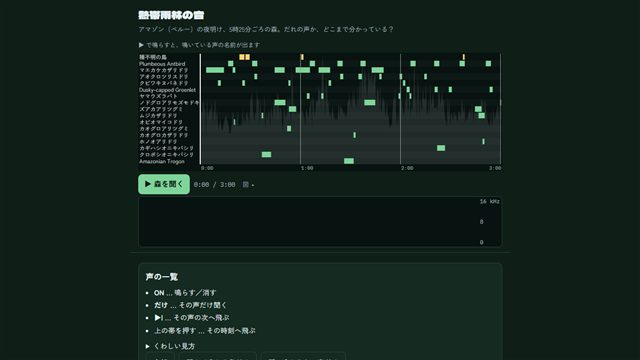
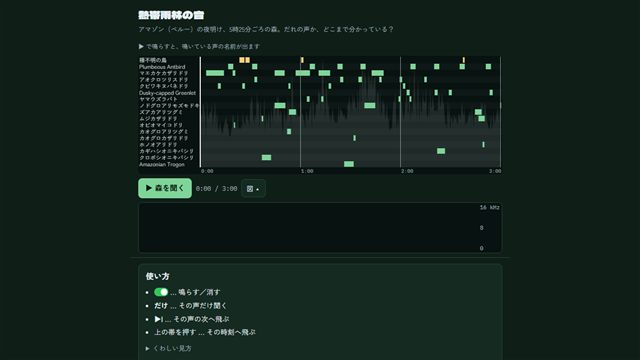
v009-tidy 熱帯雨林の音: ON/OFF をトグルスイッチに・使い方と声の一覧のパネルを分ける・ボタンの形と大きさをそろえる・余白を 8/12 px の2つにして style.css を書き直す・固定した所の状態は再生の行の右に

diff --git a/jungle-sound/css/style.css b/jungle-sound/css/style.css
@@ -1,137 +1,121 @@
-/* 熱帯雨林の音 */
-:root{--bg:#0f1f18;--panel:#152a21;--line:#2a4538;--ink:#e8f0f4;--muted:#a3b4bf;--acc:#7fd49a;--ok:#7fd49a;--ng:#ff9b7a;
+/* 熱帯雨林の音
+   余白は2つだけ（2026-11-14 ユーザー「マージンが詰まりすぎたり離れすぎたり」）:
+   --g = かたまりの中の部品どうし 8px ／ --G = かたまり（パネル）どうし 12px。部品ごとに margin を足さず、親の gap で並べる */
+:root{--bg:#0f1f18;--panel:#152a21;--line:#2a4538;--ink:#e8f0f4;--muted:#a3b4bf;--acc:#7fd49a;--ok:#7fd49a;--ng:#ff9b7a;--warn:#ffd27a;
+  --g:8px;--G:12px;--pad:16px;
   --f-display:'Dela Gothic One','Yu Gothic',sans-serif;--f-body:'Zen Kaku Gothic New','Yu Gothic',system-ui,sans-serif;--f-mono:'IBM Plex Mono',Consolas,monospace;color-scheme:dark}
 html,body{margin:0;background:var(--bg);color:var(--ink);font-family:var(--f-body)}
 [hidden]{display:none!important}
+p,ul,h1,h2,h3{margin:0}
 #app{max-width:760px;margin:0 auto}
-#top{padding:12px 16px 4px}
-#top h1{font-family:var(--f-display);font-weight:400;font-size:22px;margin:0}
-.sub{margin:4px 0 0;color:var(--muted);font-size:13px}
+#top{padding:var(--G) var(--pad) var(--g);display:flex;flex-direction:column;gap:4px}
+#top h1{font-family:var(--f-display);font-weight:400;font-size:22px}
+.sub{color:var(--muted);font-size:13px}
 
-/* 上に固定: 図と再生（スマホでもスクロールで消えない） */
-#pin{position:sticky;top:0;z-index:2;background:var(--bg);padding:8px 16px 10px;border-bottom:1px solid var(--line)}
-.spec-wrap{position:relative;height:150px;border:1px solid var(--line);border-radius:8px;overflow:hidden;background:#081210}
-#spec{position:absolute;inset:0;width:100%;height:100%;display:block}
-.axis{position:absolute;right:4px;top:2px;bottom:2px;display:flex;flex-direction:column;justify-content:space-between;font:11px var(--f-mono);color:var(--muted);pointer-events:none}
-.spec-note{margin:4px 0 0;color:var(--muted);font-size:12px}
-.player{display:flex;align-items:center;gap:12px;margin-top:8px;flex-wrap:wrap}
-.status{margin:0;font:14px var(--f-mono);color:var(--muted)}
-.status.on{color:var(--acc)}
+/* ---- ボタンの形（2種類だけ） ---- */
+button{font:inherit;cursor:pointer;border-radius:8px}
+button:disabled{opacity:.3;cursor:default}
+.primary{background:var(--acc);color:#0b1a12;border:none;font-weight:700;font-size:15px;min-height:40px;padding:8px 14px;white-space:nowrap}
+.primary.on{background:var(--warn)}
+/* ふつうのボタン（全部・種まで分かる鳥だけ・だけ・▶|・図）。同じ形・同じ大きさ */
+.btn,.fold{flex:0 0 auto;background:#132a20;color:var(--ink);border:1px solid var(--line);min-height:36px;min-width:44px;padding:2px 10px;font-size:13px;white-space:nowrap}
 
-button{font:inherit;font-size:15px;min-height:40px;padding:8px 14px;border-radius:8px;cursor:pointer}
-button:disabled{opacity:.4;cursor:default}
-.primary{background:var(--acc);color:#0b1a12;border:none;font-weight:700}
-.primary.on{background:#ffd27a}
-.listen{background:transparent;color:var(--ink);border:1px solid var(--acc)}
-.listen.on{background:var(--acc);color:#0b1a12}
-.answer{background:#24392f;color:var(--ink);border:1px solid var(--line)}
-
-/* 第二弾: 声のカード（上に固定。横に並べてスクロール） */
-.now-hear{margin:6px 0 0;font-size:12px;color:var(--muted);font-family:var(--f-mono)}
-.cards{display:flex;gap:8px;overflow-x:auto;padding:8px 2px 6px;scroll-snap-type:x proximity}
-.vc{flex:0 0 118px;display:flex;flex-direction:column;border-radius:10px;scroll-snap-align:start;
-  --lv:0;transition:box-shadow .08s}
-.vc-main{all:unset;box-sizing:border-box;cursor:pointer;display:flex;flex-direction:column;gap:1px;background:#1a3328;flex:1;
-  border:2px solid var(--line);border-radius:10px 10px 0 0;padding:0 0 4px;overflow:hidden;position:relative}
-.vc-main:focus-visible{outline:2px solid var(--acc);outline-offset:2px}
-.vc-main img,.vc-main .q{width:100%;height:52px;object-fit:cover;display:block;background:#0b1712}
-.vc-main .q{display:flex;align-items:center;justify-content:center;font:28px var(--f-display);color:#7d8f88}
-.vc-kind{display:inline-block;align-self:flex-start;margin:4px 6px 0;padding:0 6px;border-radius:4px;font-size:11px;line-height:18px;font-weight:700}
-.k-sp{background:#7fd49a;color:#0b1a12} .k-bird{background:#ffd27a;color:#2a1d00} .k-bed{background:#8a9a94;color:#101814}
-.vc-name{padding:0 6px;font-size:13px;font-weight:700;line-height:1.3}
-.vc-sub{padding:0 6px;font-size:10.5px;color:var(--muted);line-height:1.3}
-.vc-cnt{padding:0 6px;font-size:10.5px;color:var(--muted);font-family:var(--f-mono)}
-.vc-state{position:absolute;top:4px;right:4px;font:700 11px var(--f-mono);background:#0b1a12cc;color:var(--acc);padding:1px 5px;border-radius:4px}
-.vc-solo{border-radius:0 0 10px 10px;border:2px solid var(--line);border-top:none;background:#132a20;color:var(--ink);font-size:13px;min-height:36px;padding:2px}
-.vc.live .vc-main{border-color:rgba(255,224,130,calc(.35 + .65*var(--lv)));box-shadow:0 0 calc(4px + 14px*var(--lv)) rgba(255,214,110,calc(.25 + .6*var(--lv)))}
-.vc.off .vc-main{filter:grayscale(1);opacity:.45}
-.vc.off .vc-state{color:var(--ng)}
-.vc.off.live .vc-main{box-shadow:0 0 6px rgba(255,214,110,.25)}
-.groups{display:flex;flex-wrap:wrap;gap:8px}
-.grp{background:transparent;color:var(--ink);border:1px solid var(--line);font-size:14px}
-.mix-state{margin:8px 0 0;font-size:13px;display:flex;flex-direction:column;min-height:2.9em}
-.mix-state span{white-space:nowrap;overflow:hidden;text-overflow:ellipsis;min-height:1.45em}
-.howto{margin:4px 0 6px;padding-left:1.2em;font-size:14px;line-height:1.8}
-.next:disabled{opacity:.3;cursor:default}
-.hint{color:var(--muted);font-size:13px;margin:6px 0 0}
-.boost{color:#ffd27a}
-.boost-tag{display:inline-block;background:#ffd27a;color:#2a1d00;border-radius:4px;padding:0 5px;font-weight:700}
-.card-note{margin:2px 0 0;font-size:11px;color:var(--muted)}
-.vc.solo .vc-solo{background:var(--acc);color:#0b1a12;font-weight:700}
-.vc.solo .vc-main{border-color:var(--acc)}
-.vc-sub{display:-webkit-box;-webkit-line-clamp:2;-webkit-box-orient:vertical;overflow:hidden}
-#pin .spec-wrap{height:110px}
-@media (max-width:480px){ #pin .spec-wrap{height:80px} .vc{flex-basis:104px} }
-
-/* 声の帯と、いま鳴いている名前の札（上に固定） */
-.chips{margin:0 0 4px;min-height:22px;display:flex;flex-wrap:wrap;gap:4px;align-items:center;font-size:12px}
+/* ---- 上に固定: いま鳴いている名前 → 声の帯 → 再生の行 → 図 ---- */
+#pin{position:sticky;top:0;z-index:2;background:var(--bg);padding:var(--g) var(--pad);border-bottom:1px solid var(--line);display:flex;flex-direction:column;gap:var(--g)}
+.chips{min-height:20px;display:flex;flex-wrap:wrap;gap:4px;align-items:center;font-size:12px}
 .chip{display:inline-block;padding:0 6px;border-radius:4px;font-size:11.5px;line-height:18px;font-weight:700}
 .chip.off{background:transparent!important;border:1px dashed #5d6d67;color:#8a9a94;font-weight:400}
 .chip-lead{color:var(--muted);margin-right:2px}
 .chip-none{color:var(--muted)}
 .lanes-wrap{position:relative}
 #lanes{display:block;width:100%;touch-action:pan-y;cursor:pointer;border-radius:6px}
-#pin .player{margin-top:6px;gap:8px;flex-wrap:wrap}
-#pin .player .primary{white-space:nowrap;padding:8px 12px}
-#pin .status{font-size:12.5px;white-space:nowrap}
+.player{display:flex;align-items:center;gap:var(--g);min-width:0}
+.status{font:12.5px var(--f-mono);color:var(--muted);white-space:nowrap}
+.status.on{color:var(--acc)}
+/* 状態（「〜だけ」「+20 dB」）と移動先は、再生の行の右の残り。行は足さない */
+.pin-line{flex:1 1 auto;min-width:0;font-size:12px;white-space:nowrap;overflow:hidden;text-overflow:ellipsis;text-align:right}
 .pin-state{color:var(--muted)}
-.spec-head{display:flex;gap:4px;align-items:center;margin-left:auto}
-.tab{background:transparent;color:var(--muted);border:1px solid var(--line);font-size:12.5px;min-height:36px;padding:4px 8px;white-space:nowrap}
-.tab.on{background:#24392f;color:var(--ink);border-color:var(--acc)}
-.fold{background:transparent;color:var(--muted);border:1px solid transparent;font-size:12px;min-height:36px;padding:4px 6px;white-space:nowrap}
-#pin .spec-wrap{height:100px;margin-top:4px}
-.pin-line{margin:4px 0 0;height:18px;line-height:18px;font-size:12px;white-space:nowrap;overflow:hidden;text-overflow:ellipsis}
-.pin-line .pin-state:not(:empty){margin-right:8px}
-.seek-msg{font:12px var(--f-mono);color:#ffd27a}
-.more{margin-bottom:12px}
-/* 声の一覧（下にスクロール） */
-.vlist{list-style:none;margin:8px 0;padding:0}
-.lr{display:flex;flex-wrap:wrap;align-items:center;gap:6px;border:1.5px solid transparent;border-bottom:1px solid var(--line);padding:4px 2px;border-radius:6px}
-.lr.sel{border:1.5px solid #fff}
+.pin-state:not(:empty){margin-right:6px}
+.seek-msg{font:12px var(--f-mono);color:var(--warn)}
+.boost-tag{display:inline-block;background:var(--warn);color:#2a1d00;border-radius:4px;padding:0 5px;font-weight:700}
+.spec-wrap{position:relative;height:100px;border:1px solid var(--line);border-radius:8px;overflow:hidden;background:#081210}
+#spec{position:absolute;inset:0;width:100%;height:100%;display:block}
+.axis{position:absolute;right:4px;top:2px;bottom:2px;display:flex;flex-direction:column;justify-content:space-between;font:11px var(--f-mono);color:var(--muted);pointer-events:none}
+
+/* ---- 下にスクロール: パネル ---- */
+#scroll{padding:var(--G) var(--pad) 32px;display:flex;flex-direction:column;gap:var(--G)}
+.card{background:var(--panel);border:1px solid var(--line);border-radius:10px;padding:var(--G) 14px;font-size:14px;line-height:1.7;display:flex;flex-direction:column;gap:var(--g)}
+.card h2{font-size:16px;line-height:1.4}
+.card h3{font-size:14px}
+.card a,#about a{color:var(--acc)}
+/* 開閉（details）は、ブラウザによって flex が効かないので、となりどうしの間をあける */
+details.card{display:block}
+details.card>*+*{margin-top:var(--g)}
+details.card>summary,.more>summary{cursor:pointer}
+.more>*+*{margin-top:6px}
+.more>summary{color:var(--muted);font-size:13px}
+.howto{padding-left:1.2em;line-height:1.9}
+.tg-mini{display:inline-block;vertical-align:-3px;width:28px;height:17px;border-radius:9px;background:#34c759;position:relative}
+.tg-mini::after{content:"";position:absolute;top:2px;left:13px;width:13px;height:13px;border-radius:50%;background:#fff}
+.warn,.card-note{color:var(--muted);font-size:12px}
+.vc-kind{display:inline-block;padding:0 6px;border-radius:4px;font-size:11px;line-height:18px;font-weight:700}
+.k-sp{background:#7fd49a;color:#0b1a12} .k-bird{background:var(--warn);color:#2a1d00} .k-bed{background:#8a9a94;color:#101814}
+
+/* ---- 声の一覧: まとめボタン → いまの状態（1行） → 行 ---- */
+.groups{display:flex;flex-wrap:wrap;gap:6px}
+.mix-state{font-size:13px;white-space:nowrap;overflow:hidden;text-overflow:ellipsis;line-height:1.5}
+.boost{color:var(--warn)}
+.vlist{list-style:none;padding:0;display:flex;flex-direction:column}
+.lr{display:flex;flex-wrap:wrap;align-items:center;gap:6px;padding:4px;border:1.5px solid transparent;border-bottom-color:var(--line);border-radius:6px}
+.lr.sel{border-color:#fff}
 .lr.off .lr-body{opacity:.45;filter:grayscale(1)}
-.sw{flex:0 0 auto;display:flex;align-items:center;gap:4px;min-height:36px;min-width:58px;padding:2px 8px;border-radius:18px;border:1px solid var(--acc);background:#1f4a33;color:var(--acc);font:700 12px var(--f-mono)}
-.sw .sw-dot{width:12px;height:12px;border-radius:50%;background:var(--acc)}
-.lr.off .sw{background:transparent;border-color:#5d6d67;color:#8a9a94}
-.lr.off .sw .sw-dot{background:transparent;border:1.5px solid #8a9a94}
+/* ON／OFF のトグルスイッチ（iPhone の設定のような形。右に寄って緑＝鳴らす） */
+.tg{all:unset;box-sizing:border-box;flex:0 0 auto;position:relative;width:50px;height:30px;border-radius:15px;background:#3a4a44;cursor:pointer;transition:background .18s}
+.tg .tg-knob{position:absolute;top:3px;left:3px;width:24px;height:24px;border-radius:50%;background:#fff;box-shadow:0 1px 3px rgba(0,0,0,.4);transition:left .18s}
+.tg[aria-checked="true"]{background:#34c759}
+.tg[aria-checked="true"] .tg-knob{left:23px}
+.tg:focus-visible{outline:2px solid #fff;outline-offset:2px}
 .lr-body{all:unset;box-sizing:border-box;flex:1 1 140px;display:flex;align-items:center;gap:6px;cursor:pointer;min-height:40px;min-width:0}
 .lr-body:focus-visible{outline:2px solid var(--acc)}
 .lr-body img,.lr-body .q{width:40px;height:30px;object-fit:cover;border-radius:4px;flex:0 0 auto;background:#0b1712;display:flex;align-items:center;justify-content:center;font-size:14px;color:#7d8f88}
 .num{flex:0 0 auto;min-width:20px;text-align:center;border-radius:4px;font:700 11px/18px var(--f-mono)}
-.lr-text{display:flex;flex-direction:column;min-width:0}
+.lr-text{flex:1 1 auto;display:flex;flex-direction:column;min-width:0;line-height:1.4}
 .lr-name{font-size:13.5px;font-weight:700;white-space:nowrap;overflow:hidden;text-overflow:ellipsis}
-.lr-name .vc-kind{margin:0 0 0 4px;vertical-align:1px}
+.lr-name .vc-kind{margin-left:4px;vertical-align:1px}
 .lr-sub{font-size:11px;color:var(--muted);white-space:nowrap;overflow:hidden;text-overflow:ellipsis}
-.lr-text{flex:1 1 auto}
-.solo,.next{flex:0 0 auto;background:#132a20;color:var(--ink);border:1px solid var(--line);min-height:36px;min-width:44px;padding:2px 8px;font-size:13px}
 .lr.solo-on .solo{background:var(--acc);color:#0b1a12;font-weight:700}
-.lr-detail{flex:1 1 100%;font-size:13px;line-height:1.7;color:var(--ink)}
-.lr-detail .big{width:100%;max-width:320px;border-radius:6px;display:block;margin:4px 0}
+.lr-detail{flex:1 1 100%;font-size:13px;line-height:1.7;display:flex;flex-direction:column;gap:6px;padding:2px 0 4px}
+.lr-detail .big{width:100%;max-width:320px;border-radius:6px;display:block}
 .lr-detail .cr{font-size:11.5px;color:var(--muted)}
-.lr-detail .desc{margin:2px 0 6px}
-.lr-detail .more{margin-bottom:6px}
-@media (max-width:480px){ #pin .spec-wrap{height:56px} .spec-note{font-size:11px} #pin{padding-top:6px}
-  .lr-name .vc-kind{display:none} .sw{min-width:50px;padding:2px 6px} .lr{gap:4px}   /* 確かさは番号の色で分かるので、名前の横の札は出さない */
-  .hide-sm{display:none} #pin .player{gap:6px} #pin .status{font-size:11.5px} .tab{padding:4px 6px} .fold{padding:4px 4px} }
 
-#scroll{padding:8px 16px 32px}
-.card{background:var(--panel);border:1px solid var(--line);border-radius:10px;padding:12px 14px;margin:12px 0;line-height:1.75;font-size:14px}
-.card h2{font-size:16px;margin:0 0 6px}
-.card h3{font-size:14px;margin:12px 0 4px}
-.warn{color:var(--muted);font-size:13px}
-.ab{display:flex;gap:10px;margin:8px 0}
-.ab button{flex:1}
-.result{margin:8px 0 0;font-weight:700}
-.score{margin:2px 0 0;color:var(--muted);font:13px var(--f-mono)}
+/* ---- このアプリについて ---- */
+#about{color:var(--muted)}
+#about>summary{color:var(--ink)}
+#about ul{padding-left:18px;display:flex;flex-direction:column;gap:4px}
+
+/* ---- 開発用（手元だけ）: 聞きくらべ・機械・数 ---- */
+.ab{display:flex;gap:var(--g)}
+.ab button{flex:1;min-height:40px;font-size:14px}
+.listen{background:transparent;color:var(--ink);border:1px solid var(--acc)}
+.listen.on{background:var(--acc);color:#0b1a12}
+.answer{background:#24392f;color:var(--ink);border:1px solid var(--line)}
+.result{font-weight:700}
+.score{color:var(--muted);font:13px var(--f-mono)}
+.metrics,#bands{overflow-x:auto}
 .metrics table,#bands table{width:100%;border-collapse:collapse;font-size:13px}
 .metrics th,.metrics td,#bands th,#bands td{border-bottom:1px solid var(--line);padding:5px 4px;text-align:right}
-.metrics th:first-child,.metrics td:first-child,#bands th:first-child,#bands td:first-child{text-align:left}
+.metrics th:first-child,.metrics td:first-child,#bands th:first-child,#bands td:first-child{text-align:left;min-width:9em}
 .metrics td.num,#bands td.num{font-family:var(--f-mono);white-space:nowrap}
-.metrics,#bands{overflow-x:auto}   /* 表だけ横に動かせる（ページははみ出さない） */
-.metrics td:first-child,#bands td:first-child{min-width:9em}
 .in{color:var(--ok)} .out{color:var(--ng)}
-.summary{margin:8px 0 0;font-weight:700}
-.more summary,#about summary{cursor:pointer}
-#about{color:var(--muted)}
-#about summary{color:var(--ink)}
-#about a,.card a{color:var(--acc)}
-#about ul{padding-left:18px}
+.summary{font-weight:700}
+
+/* ---- スマホ ---- */
+@media (max-width:480px){
+  .spec-wrap{height:56px}
+  .hide-sm{display:none}
+  .primary{padding:8px 12px}
+  .status{font-size:11.5px}
+  .fold{padding:2px 8px}
+  .lr{gap:4px}
+  .lr-name .vc-kind{display:none}   /* 確かさは番号の色で分かるので、名前の横の札は出さない */
+}

diff --git a/jungle-sound/js/list.js b/jungle-sound/js/list.js
@@ -1,5 +1,5 @@
 // 熱帯雨林の音 — 声の一覧（下にスクロール。声の帯と同じ順・同じ番号）
-// 1行 = ON／OFF のスイッチ・番号・写真・名前・「だけ」・「次の声へ」。行を押すとその声を選ぶ（写真と出どころが開く）。
+// 1行 = ON／OFF のトグルスイッチ（iPhone の設定のような形）・番号・写真・名前・「だけ」・「次の声へ」。行を押すとその声を選ぶ（写真と出どころが開く）。
 // 選んだ声: 帯と一覧に白い縁どり。
 // 確かさ: 種まで（録音への専門家の注釈で種が付いた鳥の声）／鳥・種は不明（注釈で種が付かなかった「????」）／分けられていない（土台。虫・カエルなど）
 'use strict';
@@ -23,19 +23,19 @@ window.List = (() => {
       const pic = s.photo ? `<img src="${s.photo.file}" alt="" loading="lazy">` : `<span class="q">${k === 'sp' ? '<small>写真なし</small>' : k === 'bird' ? '鳥？' : '？'}</span>`;
       const sub = k === 'bed' ? 'だれの声か分けられていない' : k === 'bird' ? `種は分からない・${count[code]} 回` : `<i>${s.sci}</i>・${count[code]} 回`;
       return `<li class="lr" data-code="${code}">
-        <button class="sw" aria-pressed="true" aria-label="${name}を鳴らす／消す"><span class="sw-dot"></span><span class="sw-txt">ON</span></button>
+        <button class="tg" role="switch" aria-checked="true" aria-label="${name}を鳴らす"><span class="tg-knob"></span></button>
         <button class="lr-body" aria-expanded="false" aria-label="${name}を選ぶ">
           <span class="num ${KIND[k][1]}">${code === 'bed' ? '地' : i + 1}</span>${pic}
           <span class="lr-text"><span class="lr-name">${name} <span class="vc-kind ${KIND[k][1]}">${KIND[k][0]}</span></span><span class="lr-sub">${sub}</span></span>
         </button>
-        <button class="solo" aria-pressed="false" aria-label="${name}だけを聞く">だけ</button>
-        ${code === 'bed' ? '' : `<button class="next" aria-label="${name}の次の声へ移動">▶|</button>`}
+        <button class="solo btn" aria-pressed="false" aria-label="${name}だけを聞く">だけ</button>
+        ${code === 'bed' ? '' : `<button class="next btn" aria-label="${name}の次の声へ移動">▶|</button>`}
         <div class="lr-detail" hidden></div></li>`;
     };
     $('voiceList').innerHTML = row('bed', -1) + order.map(row).join('');
     for (const li of $('voiceList').querySelectorAll('.lr')) {
       const code = li.dataset.code;
-      const sw = li.querySelector('.sw'), solo = li.querySelector('.solo');
+      const sw = li.querySelector('.tg'), solo = li.querySelector('.solo');
       sw.onclick = () => keep(sw, () => { soloCode = null; setOn(code, !isOn(code)); });
       li.querySelector('.lr-body').onclick = () => select(sel === code ? null : code);
       solo.onclick = () => keep(solo, () => { only(c => c === code, `「${short(code)}」だけ`); soloCode = code; marks(); });
@@ -55,7 +55,7 @@ window.List = (() => {
   function setOn(code, on, quiet) {
     Forest.set(code, on);
     const li = $('voiceList').querySelector(`[data-code="${CSS.escape(code)}"]`);
-    li.classList.toggle('off', !on); li.querySelector('.sw').setAttribute('aria-pressed', on); li.querySelector('.sw-txt').textContent = on ? 'ON' : 'OFF';
+    li.classList.toggle('off', !on); li.querySelector('.tg').setAttribute('aria-checked', on);
     const nx = li.querySelector('.next'); if (nx) nx.disabled = !on;   // 消している声へは飛べない
     if (!quiet) { marks(); summary(null); onChange(); }
   }
@@ -70,9 +70,9 @@ window.List = (() => {
     const on = all().filter(isOn), by = k => on.filter(c => kindOf(c) === k).length;
     const boost = !isOn('bed') && on.length > 0 ? Forest.BOOST_DB : 0;   // 虫・カエルを消して鳥だけのときは、聞きやすいように大きく
     Forest.boost(boost);
-    // 高さが変わらないように、いつも2行（1行目: いま鳴らしている数、2行目: 大きくしているときだけの注意）
-    $('mixState').innerHTML = `<span>${label ? `<b>${label}</b> ・ ` : ''}鳴らしている声 ${on.length} / ${all().length}</span>` +
-      `<span class="boost">${boost ? `鳥の声を +${boost} dB 大きくしています（本物より大きい）` : ''}</span>`;
+    // 1行だけ（高さを変えない。+20 dB の注意も同じ行の後ろに）
+    $('mixState').innerHTML = `${label ? `<b>${label}</b> ・ ` : ''}鳴らしている声 ${on.length} / ${all().length}` +
+      (boost ? ` ・ <span class="boost">鳥の声を +${boost} dB（本物より大きい）</span>` : '');
     // 上に固定した所の一行は、全部鳴らしているときは出さない（消した声・「だけ」・+20 dB があるときだけ）
     const partial = on.length < all().length;
     if (!partial && !boost) { $('pinState').innerHTML = ''; return; }

diff --git a/jungle-sound/launcher.html b/jungle-sound/launcher.html
@@ -41,7 +41,7 @@ td a{color:var(--ink)}
   </section>
   <section>
     <h2>すべてのバックアップ</h2>
-    <table><tr><td>v008-intro</td><td><a href="index.html">開いた行に鳥の紹介と Wikipedia・eBird・xeno-canto へのリンク（いまの版）</a></td><td>2026-11-14</td></tr><tr><td>v007-steady</td><td>選んだ声の欄とくり返しを外す・押しても固定した所の高さが変わらない（<a href="https://github.com/sishiya/manabi-lab/tree/e330cde/jungle-sound" target="_blank" rel="noopener">Git</a>）</td><td>2026-11-14</td></tr><tr><td>v006-simple</td><td>緑の図は直近だけ・押しても画面がずれない・文はまず短く（<a href="https://github.com/sishiya/manabi-lab/tree/04ec559/jungle-sound" target="_blank" rel="noopener">Git</a>）</td><td>2026-11-14</td></tr><tr><td>v005-lanes</td><td>声の帯・押して移動・次の声へ・くり返す・図の「いまの音／3分」（<a href="https://github.com/sishiya/manabi-lab/tree/d6cabbc/jungle-sound" target="_blank" rel="noopener">Git</a>）</td><td>2026-11-14</td></tr><tr><td>v004-cards</td><td>声のカード（写真・ON／OFF・だけ・鳴っているあいだ光る）（<a href="https://github.com/sishiya/manabi-lab/tree/469c192/jungle-sound" target="_blank" rel="noopener">Git</a>）</td><td>2026-11-14</td></tr><tr><td>v003-fill</td><td>土台をつながず塗りつぶす・鳥はまわりの音を引く・機械の聞き分け・聞きくらべ10回（<a href="https://github.com/sishiya/manabi-lab/tree/a14234e/jungle-sound" target="_blank" rel="noopener">Git</a>）</td><td>2026-11-14</td></tr><tr><td>v002-first</td><td>第一弾: 土台をつないだ重ねた森と、本物3本との聞きくらべ・数のくらべ（<a href="https://github.com/sishiya/manabi-lab/tree/3c049a8/jungle-sound" target="_blank" rel="noopener">Git</a>）</td><td>2026-11-14</td></tr><tr><td>v001-start</td><td><a href="versions/v001-start/index.html">雛形（new-app.ps1）</a></td><td>2026-11-14</td></tr></table>
+    <table><tr><td>v009-tidy</td><td><a href="index.html">トグルスイッチ・パネルを分ける・ボタンと余白をそろえる（いまの版）</a></td><td>2026-11-14</td></tr><tr><td>v008-intro</td><td>開いた行に鳥の紹介と Wikipedia・eBird・xeno-canto へのリンク（<a href="https://github.com/sishiya/manabi-lab/tree/ba8e3c6/jungle-sound" target="_blank" rel="noopener">Git</a>）</td><td>2026-11-14</td></tr><tr><td>v007-steady</td><td>選んだ声の欄とくり返しを外す・押しても固定した所の高さが変わらない（<a href="https://github.com/sishiya/manabi-lab/tree/e330cde/jungle-sound" target="_blank" rel="noopener">Git</a>）</td><td>2026-11-14</td></tr><tr><td>v006-simple</td><td>緑の図は直近だけ・押しても画面がずれない・文はまず短く（<a href="https://github.com/sishiya/manabi-lab/tree/04ec559/jungle-sound" target="_blank" rel="noopener">Git</a>）</td><td>2026-11-14</td></tr><tr><td>v005-lanes</td><td>声の帯・押して移動・次の声へ・くり返す・図の「いまの音／3分」（<a href="https://github.com/sishiya/manabi-lab/tree/d6cabbc/jungle-sound" target="_blank" rel="noopener">Git</a>）</td><td>2026-11-14</td></tr><tr><td>v004-cards</td><td>声のカード（写真・ON／OFF・だけ・鳴っているあいだ光る）（<a href="https://github.com/sishiya/manabi-lab/tree/469c192/jungle-sound" target="_blank" rel="noopener">Git</a>）</td><td>2026-11-14</td></tr><tr><td>v003-fill</td><td>土台をつながず塗りつぶす・鳥はまわりの音を引く・機械の聞き分け・聞きくらべ10回（<a href="https://github.com/sishiya/manabi-lab/tree/a14234e/jungle-sound" target="_blank" rel="noopener">Git</a>）</td><td>2026-11-14</td></tr><tr><td>v002-first</td><td>第一弾: 土台をつないだ重ねた森と、本物3本との聞きくらべ・数のくらべ（<a href="https://github.com/sishiya/manabi-lab/tree/3c049a8/jungle-sound" target="_blank" rel="noopener">Git</a>）</td><td>2026-11-14</td></tr><tr><td>v001-start</td><td><a href="versions/v001-start/index.html">雛形（new-app.ps1）</a></td><td>2026-11-14</td></tr></table>
   </section>
 </main>
 </body>

diff --git a/jungle-sound/index.html b/jungle-sound/index.html
@@ -22,6 +22,8 @@
       <button id="playForest" class="primary" disabled>読みこみ中…</button>
       <span id="status" class="status">0:00 / 3:00</span>
       <button id="specFold" class="fold" aria-expanded="true" aria-label="図をたたむ">図 ▴</button>
+      <!-- 状態と移動先は、この行の右の残りに（行を足さない＝高さが変わらない。2026-11-14 ユーザー） -->
+      <span class="pin-line"><span id="pinState" class="pin-state"></span><span id="seekMsg" class="seek-msg" aria-live="polite"></span></span>
     </div>
     <div id="specBox">
       <div class="spec-wrap">
@@ -29,16 +31,15 @@
         <div class="axis"><span>16 kHz</span><span>8</span><span>0</span></div>
       </div>
     </div>
-    <!-- 固定した所の状態の1行。高さはいつも同じ（出たり消えたりで下がずれないように。2026-11-14 ユーザー） -->
-    <p class="pin-line"><span id="pinState" class="pin-state"></span><span id="seekMsg" class="seek-msg" aria-live="polite"></span></p>
   </section>
 
   <main id="scroll">
+    <!-- 使い方（文）と、声の一覧（ボタン）はパネルを分ける。ボタンが文のグループに見えないように（2026-11-14 ユーザー） -->
     <section class="card">
-      <h2>声の一覧</h2>
+      <h2>使い方</h2>
       <!-- 文は「まず短く、くわしくは開いて」（2026-11-14 ユーザー。RULES 9章） -->
       <ul class="howto">
-        <li><b>ON</b> … 鳴らす／消す</li>
+        <li><span class="tg-mini" aria-hidden="true"></span> … 鳴らす／消す</li>
         <li><b>だけ</b> … その声だけ聞く</li>
         <li><b>▶|</b> … その声の次へ飛ぶ</li>
         <li>上の帯を押す … その時刻へ飛ぶ</li>
@@ -50,15 +51,19 @@
         <p><b>緑の図</b>: いま鳴っている直近の数秒の音の高さ（たて）と強さ（明るさ）。</p>
         <p>一覧の行を押すと、その声を選んで写真と説明が開きます。</p>
       </details>
+      <p class="warn">※ 画面を1回押すと音が出ます。はじめは音量を小さめに。</p>
+    </section>
+
+    <section class="card">
+      <h2>声の一覧</h2>
       <div class="groups">
-        <button id="gAll" class="grp">全部</button>
-        <button id="gKnown" class="grp">種まで分かる鳥だけ</button>
-        <button id="gUnknown" class="grp">種の分からない音だけ</button>
+        <button id="gAll" class="btn">全部</button>
+        <button id="gKnown" class="btn">種まで分かる鳥だけ</button>
+        <button id="gUnknown" class="btn">種の分からない音だけ</button>
       </div>
       <p id="mixState" class="mix-state" aria-live="polite"></p>
       <ul id="voiceList" class="vlist"></ul>
       <p class="card-note">写真は同じ種の別の個体です。</p>
-      <p class="warn">※ 画面を1回押すと音が出ます。はじめは音量を小さめに。</p>
     </section>
 
     <section class="card">

diff --git a/jungle-sound/js/main.js b/jungle-sound/js/main.js
@@ -52,7 +52,7 @@ function stopForest() {
 // 時刻を変える（声の帯・「次の声へ」から）。どこへ移動したかを消えずに残す
 function seek(t, snapped) {
   Forest.seek(t); showTime(); Lanes.draw();
-  $('seekMsg').textContent = `${fmt(t)} へ移動しました` + (snapped ? `（${List.short(snapped)}の声の1秒前）` : '');
+  $('seekMsg').textContent = `→ ${fmt(t)}` + (snapped ? ` ${List.short(snapped)}の手前` : '');   // 再生ボタンの行の右に入る長さに
 }
 List.seekHook = seek;
 
@@ -121,7 +121,7 @@ Promise.all([Forest.prefetch(), fetch('data/species.json').then(r => r.json())])
     List.build(forest, species, () => Lanes.dirty());
     Lanes.setup(forest, List.order, {
       seek, select: code => List.select(code),
-      preview: t => { $('seekMsg').textContent = `→ ${fmt(t)}（指をはなすと、ここへ移動）`; },
+      preview: t => { $('seekMsg').textContent = `→ ${fmt(t)}（はなすと移動）`; },
     });
     Lanes.stop(); Spectro.resize();
     $('playForest').disabled = false; ui();

diff --git a/jungle-sound/DEVNOTES.md b/jungle-sound/DEVNOTES.md
@@ -39,6 +39,13 @@
 | tools/rzip.py | Zenodo の大きな zip から1ファイルだけを範囲指定で取り出す | |
 
 ## しくみ
+**v009（見た目の整理。2026-11-14 ユーザー「ON/OFF は iPhone のトグルスイッチに」「全部ボタンが説明文のグループに見える」「マージンが詰まりすぎたり離れすぎたり」）**:
+- ON/OFF は iPhone の設定のようなトグルスイッチ（`.tg`、`role="switch"`・`aria-checked`、右に寄って緑＝鳴らす）。
+- パネルを分けた: 「使い方」（4行＋くわしい見方）／「声の一覧」（全部・種まで分かる鳥だけ・種の分からない音だけ → 状態1行 → 行）。
+- ボタンは2種類だけ: `.primary`（森を聞く）と `.btn`（全部・だけ・▶|・図）。`.btn` はどれも同じ形・高さ 36px。
+- **余白は2つだけ**: `--g` 8px（かたまりの中）・`--G` 12px（パネルどうし）。親の flex の gap で並べ、部品ごとに margin を足さない。開閉（details）は flex が効かないブラウザがあるので `>*+*` で間をあける。古い第二弾のカード・3分の図・選んだ声の欄の見た目は消した（style.css を書き直し）。
+- 固定した所の状態と移動先（`.pin-line`）は、再生の行の右の残りに入れた（行を足さない）。移動先は「→ 0:15 〇〇の手前」と短く。一覧の状態も1行（+20 dB は同じ行の後ろ）。
+
 **v008（鳥の紹介とリンク。2026-11-14 ユーザー「詳細パネルにもう少し詳しい説明を。権利的に問題あれば Wikipedia などへのリンク」→ 案の「自分の言葉の紹介＋リンク」に決定）**:
 - `data/species.json` の `desc`: 16種に1〜2行の紹介（大きさ・見た目・すみか・食べもの・声）。**英語版 Wikipedia の記事（2026-11-14 に読んだ版。`wiki.en_revid`）で確かめた事実だけ**を、このアプリの言葉で書いた（Wikipedia の文は写さない＝CC BY-SA の写しにしない。いのちの系統樹と同じ方針）。日本語版の記事があるのはヤマウズラバトだけ。
 - 批判役8回目で9種を直した（オビオマイコドリの「体が黒」→「背中と翼が黒い」、ムジカザリドリは「踊りではなく」を「踊りは見つかっていないので…らしい」に＋400 m 先まで届く声、子どもに難しい「トリル・kHz」を外す など）。批判役の案で足した事実（400 m・木の実がほとんど・さかさまにぶら下がる・明け方と夕方によく歌う）は、記事の本文にあるのを自分で確かめてから入れた。
@@ -122,6 +129,7 @@
 - 2026-11-14 v001-start: new-app.ps1 で雛形を作った（保管庫にカード）。
 - 2026-11-14 v002-first: 第一弾。ペルーの夜明けの本物の録音から「重ねた森」を作り、本物3本と数・耳でくらべる。
 - 2026-11-14 v003-fill: ユーザーの聞きくらべ 19/20（つなぎ目が分かる）→ 土台を塗りつぶしに、鳥はまわりの音を引く、機械の聞き分け（同じ3分の本物と 65%）、聞きくらべは10回・本物は同じ3分。
+- 2026-11-14 v009-tidy: トグルスイッチ・パネルを分ける・ボタンの形と大きさをそろえる・余白を 8/12 px の2つに・style.css を書き直し。
 - 2026-11-14 v008-intro: 開いた行に鳥の紹介（自分の言葉、英語版 Wikipedia で確かめた事実）と、Wikipedia・eBird・xeno-canto へのリンク。批判役8回目を反映。
 - 2026-11-14 v007-steady: 選んだ声の欄とくり返しを外す・固定した所の状態は高さの決まった1行・開閉の下に余白。
 - 2026-11-14 v006-simple: 緑の図は直近だけ・押してもずれない・種不明の鳥を上へ・OFF の ▶| は押せない・文はまず短く（くわしくは開閉）。
